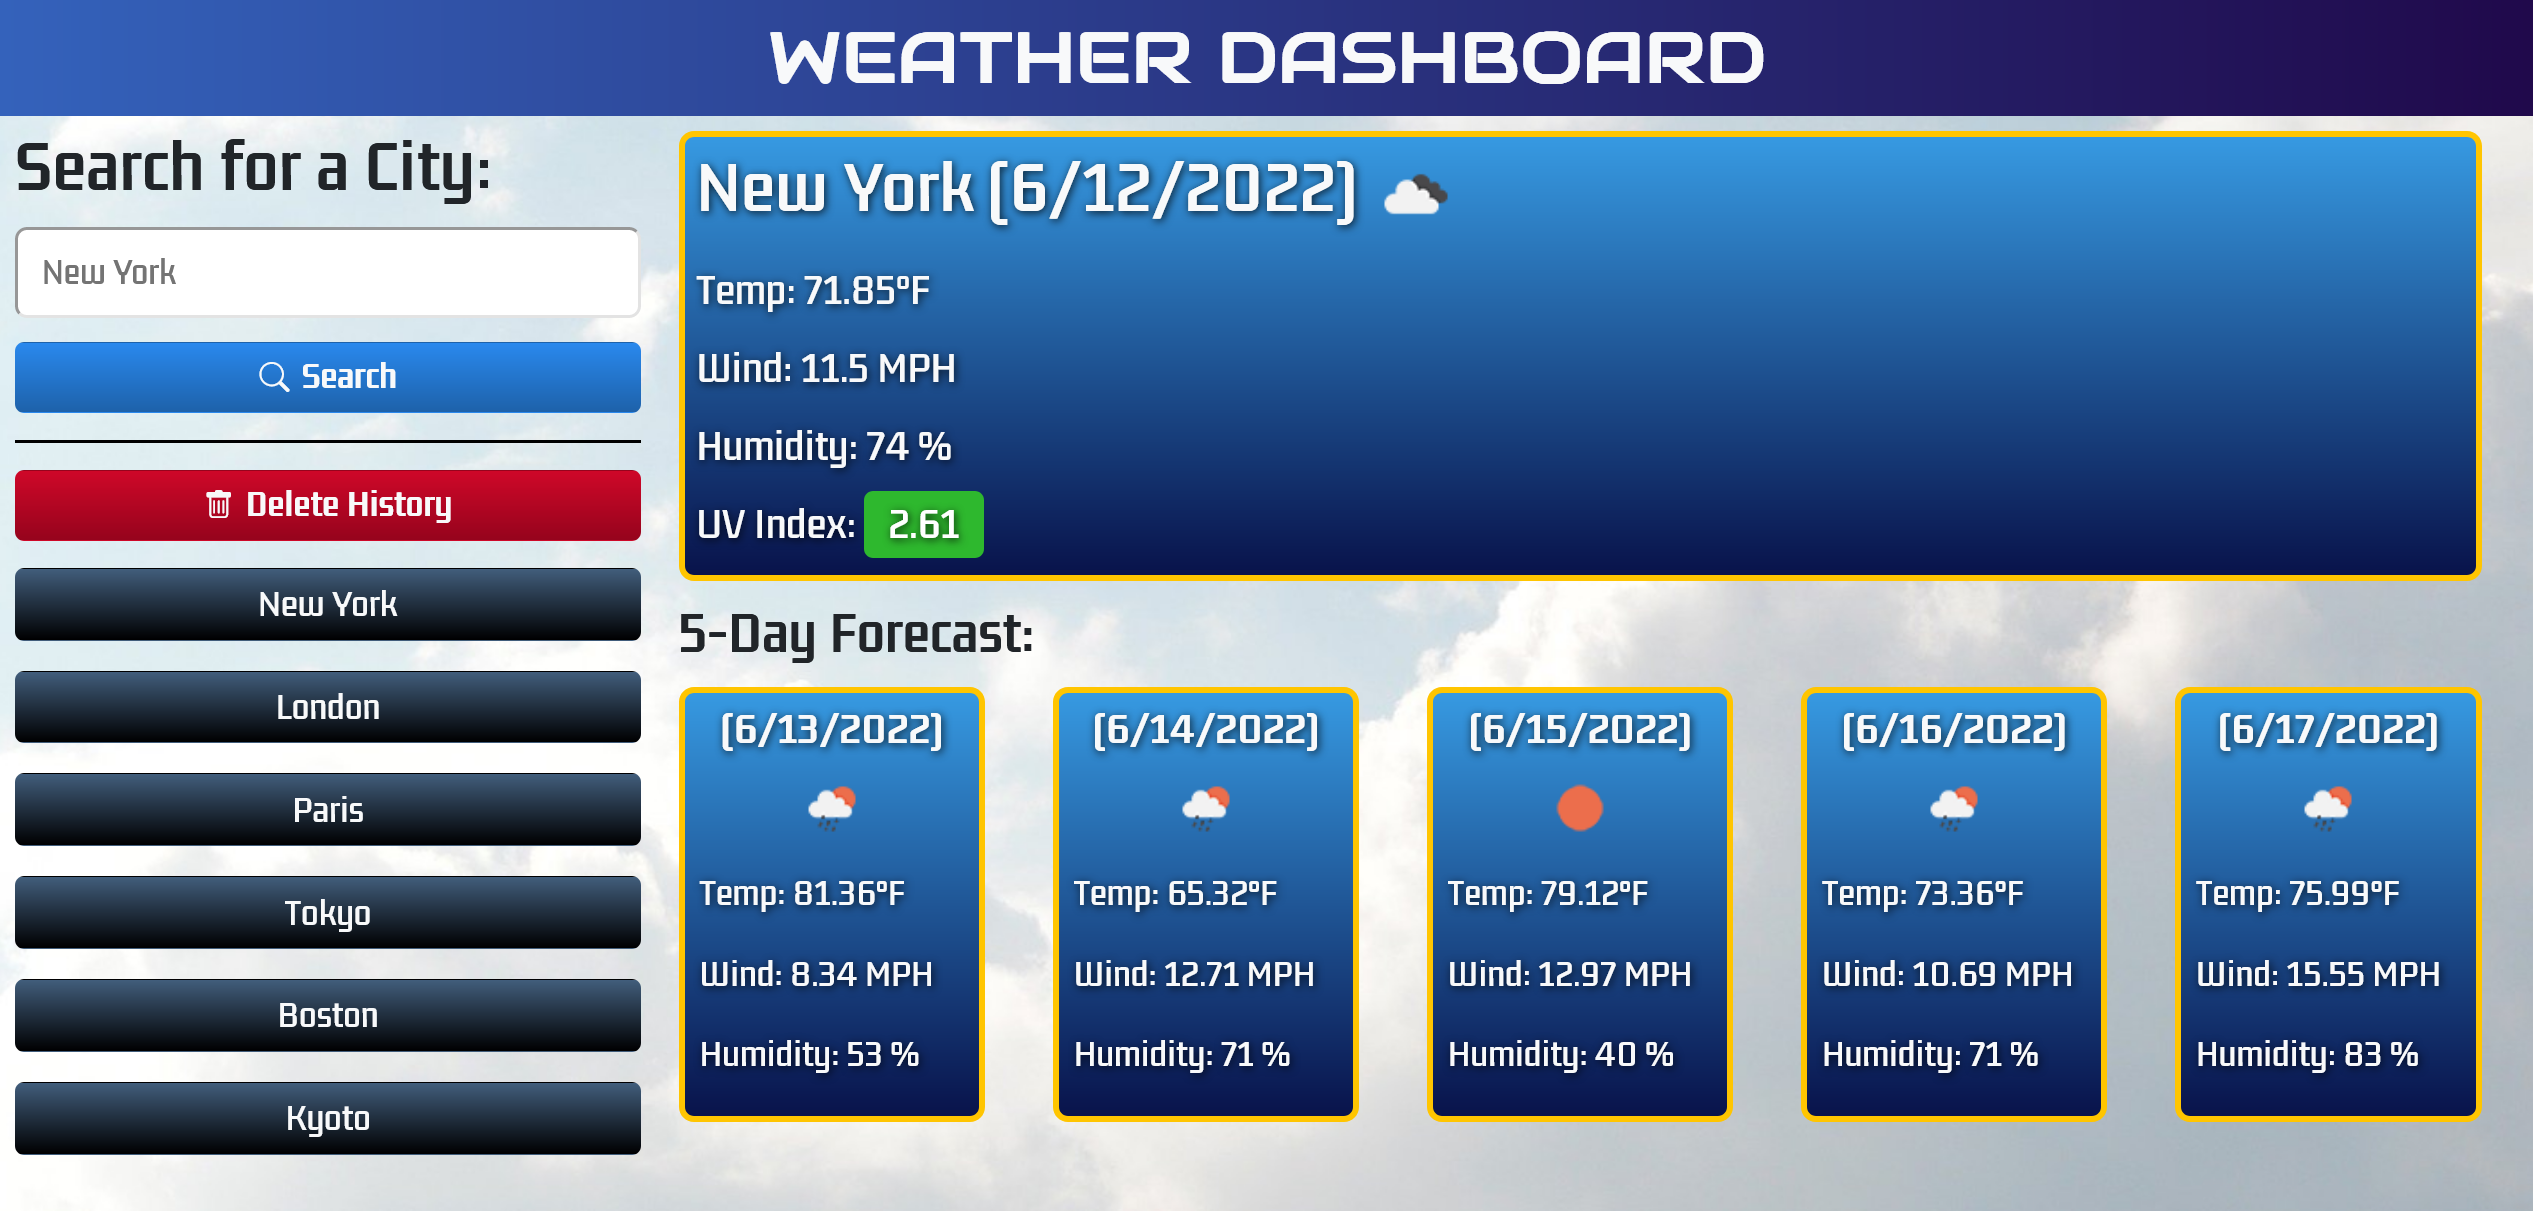
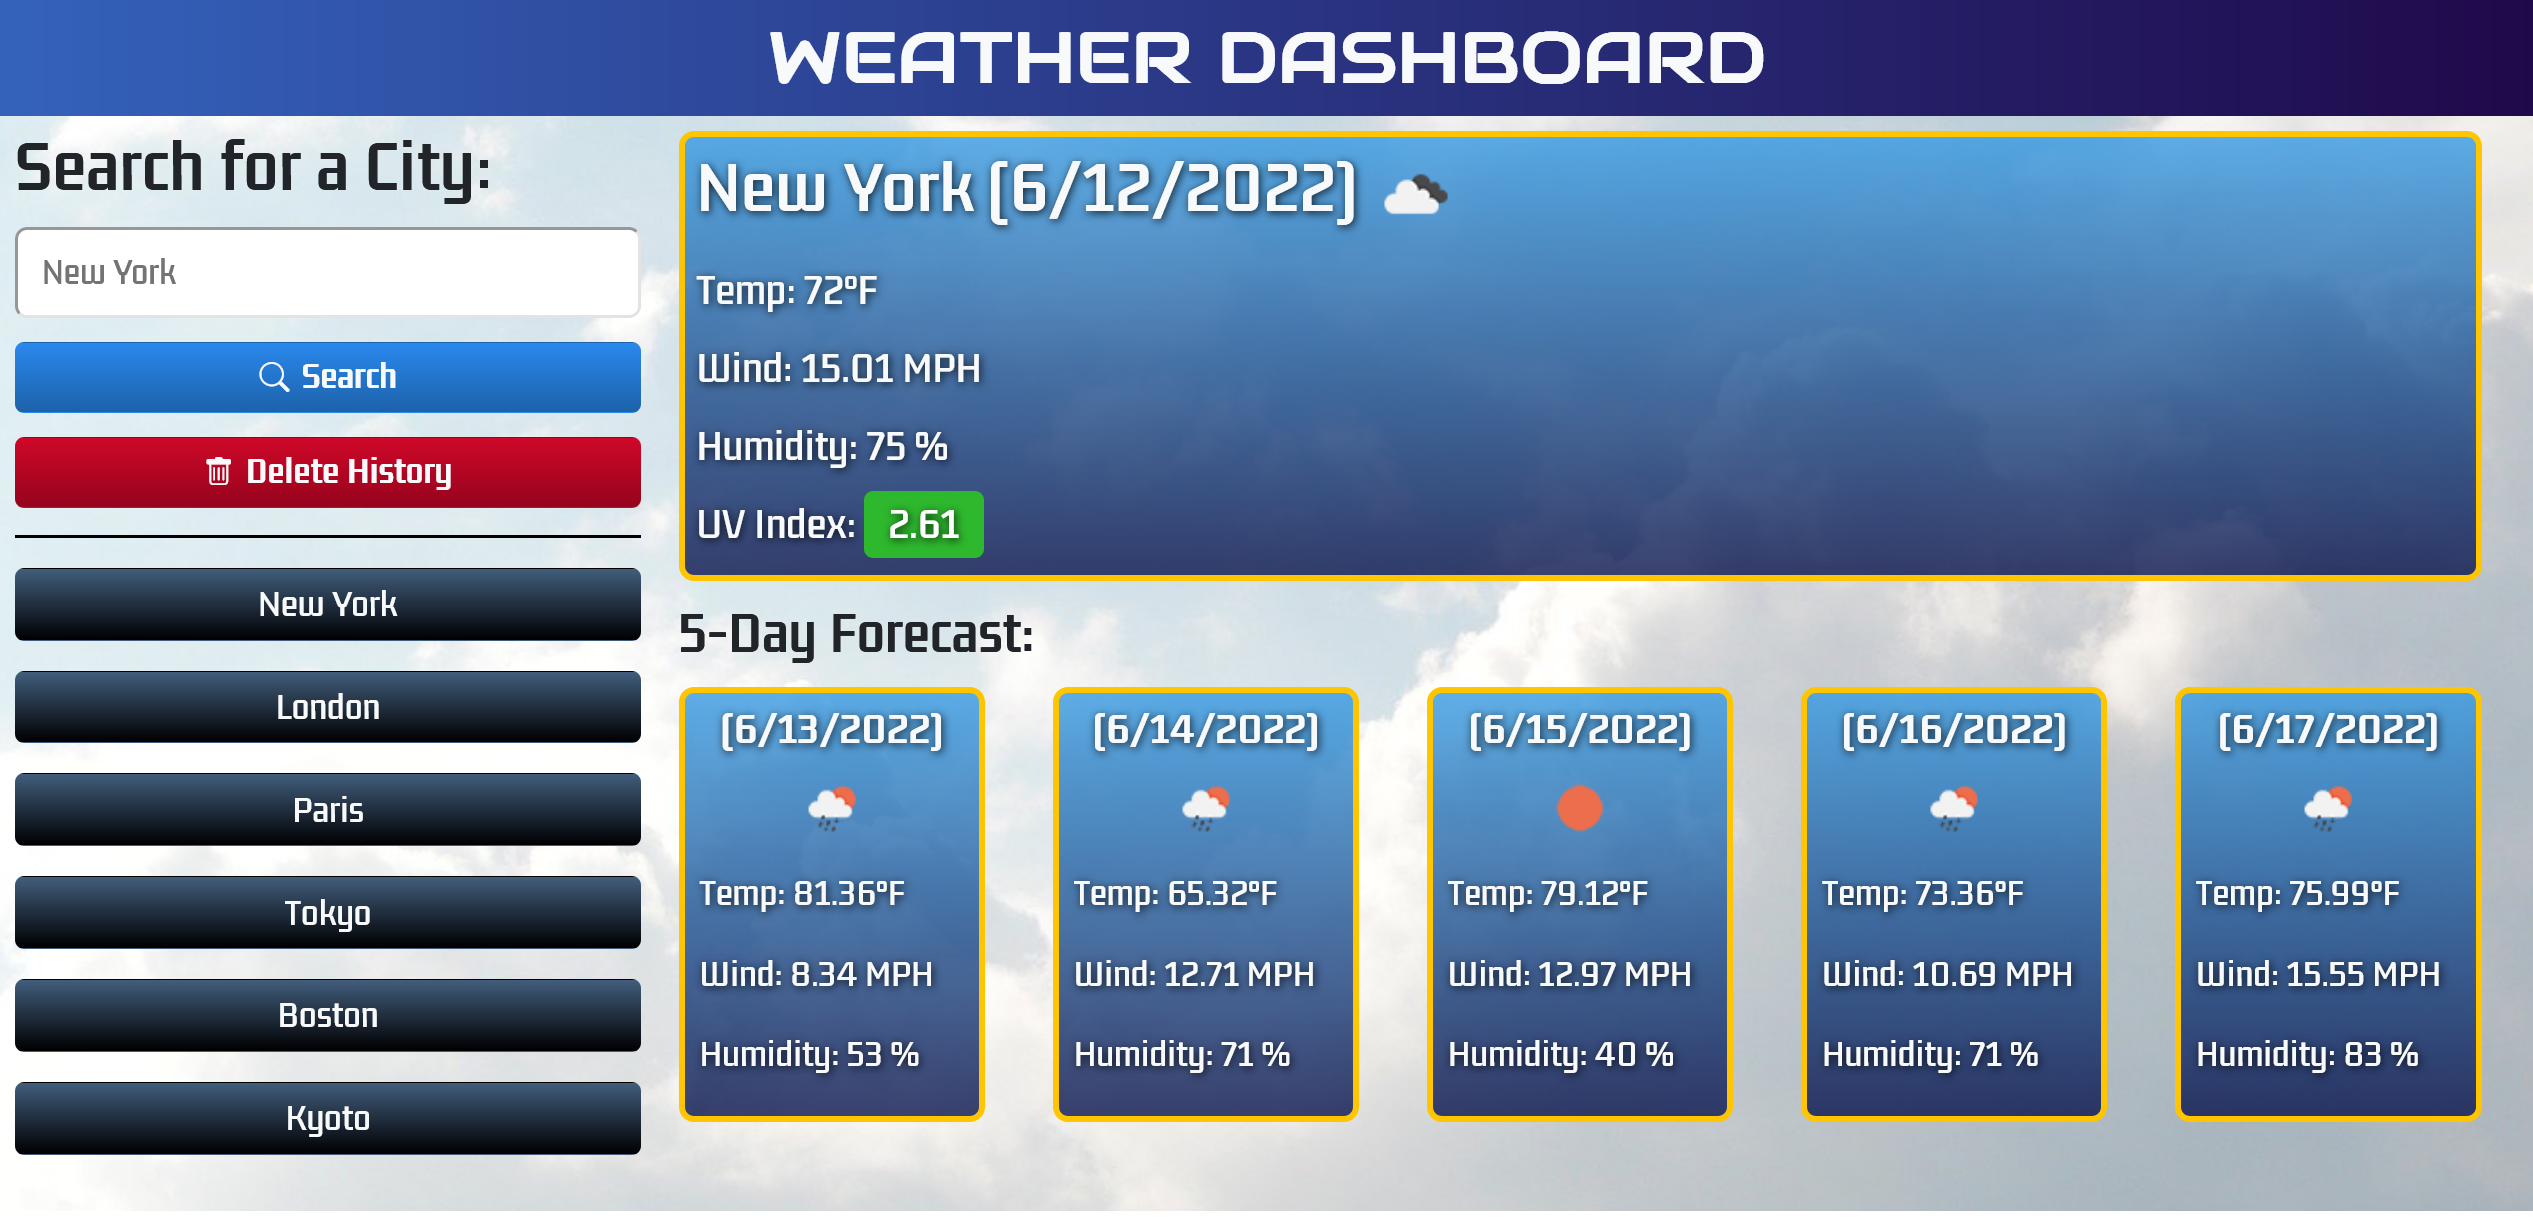
Updated CSS

diff --git a/assets/js/script.js b/assets/js/script.js
@@ -2,7 +2,6 @@
 var apiKey = "&appid=b179b0ec8a494dd3814af7d275d79d75";
 var searchHistory = [];
 var currentCity = "";
-var currentDate = "";
 
 // function to display current city weather
 var setWeatherDisplay = function(data) {
@@ -26,7 +25,7 @@ var setWeatherDisplay = function(data) {
     $("#current-city").text(currentCity);
 
     // set date display to current date
-    $("#current-date").text(currentDate);
+    $("#current-date").text(moment.unix(currentData.dt).format("(M/D/YYYY)"));
 
     // set icon for weather condition
     $("#current-condition").attr("src", "https://openweathermap.org/img/wn/" + currentData.weather[0].icon + ".png");
@@ -49,16 +48,16 @@ var setWeatherDisplay = function(data) {
     if (currentUv < 3) {
         uvIndex.addClass("text-bg-low");
     } 
-    else if (currentUv > 3 && currentUv < 6) {
+    else if (currentUv >= 3 && currentUv < 6) {
         uvIndex.addClass("text-bg-moderate");
     }
-    else if (currentUv > 6 && currentUv < 8) {
+    else if (currentUv >= 6 && currentUv < 8) {
         uvIndex.addClass("text-bg-high");
     }  
-    else if (currentUv > 8 && currentUv < 11) {
+    else if (currentUv >= 8 && currentUv < 11) {
         uvIndex.addClass("text-bg-very-high");
     }
-    else if (currentUv > 11) {
+    else if (currentUv >= 11) {
         uvIndex.addClass("text-bg-extreme");
     }
 };
@@ -126,18 +125,16 @@ var getCityLocation = function(city) {
             // request successful
             if (response.ok) {
                 response.json().then(function(data) {
-                    // set up global variables for later use
+                    // set up global variable for later use
                     currentCity = data.name;
-                    var dateData = data.dt;
-                    currentDate = moment.unix(dateData).format("(M/D/YYYY)");
+
+                    // pass city name to save history function
+                    saveHistory(data.name);
 
                     // get coordinates then pass into weather function
                     var y = data.coord.lat;
                     var x = data.coord.lon;
                     getCityWeather(y, x);
-                    
-                    // pass city name to save history function
-                    saveHistory(data.name);
                 })
             } else {
                 // if user input a city that does not exist

diff --git a/index.html b/index.html
@@ -17,24 +17,29 @@
     </header>
 
     <main id="content" class="row">
+        <!-- Search Section -->
         <section id="search" class="col-3 d-flex flex-column">
             <h2 class="fw-bold fs-1">Search for a City:</h2>
             <input id="search-input" type="text" placeholder="New York" class="my-2 form-control-lg"/>
             <button id="search-button" type="submit" class="my-2 p-2 btn text-light fw-semibold fs-5">
                 <i class="bi bi-search me-2"></i>Search
             </button>
+            <button id="delete-button" type="submit" class="my-2 p-2 btn text-light fw-semibold fs-5">
+                <i class="bi bi-trash me-2"></i>Delete History
+            </button>
+            <!-- Search History -->
             <div class="search-container d-flex flex-column text-light">
-                <button id="delete-button" type="submit" class="my-2 p-2 btn text-light fw-semibold fs-5">
-                    <i class="bi bi-trash me-2"></i>Delete History
-                </button>
                 <ul id="search-history" class="d-flex flex-column text-light">
                 </ul>
             </div>
         </section>
+        <!-- Main Display -->
         <section class="forecast-container col-9">
+            <!-- Current City Display -->
             <section id="current-display">
                 <div id="city-display" class="text-light p-2"></div>
             </section>
+            <!-- 5-day Forecast Display -->
             <section id="five-day-forecast" class="pt-2">
                 <h2 class="fw-bold py-2">5-Day Forecast:</h2>
                 <ul id="days" class="d-flex justify-content-between text-light p-0">

diff --git a/assets/css/style.css b/assets/css/style.css
@@ -22,6 +22,8 @@ p {
     margin: 10px;
 }
 
+/* Search Section */
+
 #search {
     padding: 0;
 }
@@ -69,13 +71,15 @@ p {
     background: linear-gradient(#5b98d8, #425e7c);
 }
 
+/* Main Display */
+
 .forecast-container {
     padding: 0 25px 10px 25px;
 }
 
 #city-display {
     height: 300px;
-    background: linear-gradient(#379ae2, #09134b);
+    background: linear-gradient(rgb(55, 154, 226, 0.8), rgb(9, 19, 75, 0.75));
     border: 4px solid #ffc500;
     border-radius: 10px;
     text-shadow: 1px 1px 5px rgb(0, 0, 0, 0.8);
@@ -90,31 +94,30 @@ p {
     font-size: 1.5rem;
 }
 
+/* UV Index */
+
 .text-bg-low {
-    color:white;
     background-color: #2eb82e;
 }
 
 .text-bg-moderate {
     color:black;
     background-color: #ffd900;
-    text-shadow: 1px 1px 5px rgba(255, 255, 255, 0.5);
+    text-shadow: 1px 1px 10px rgba(255, 255, 255, 0.3);
 }
 
 .text-bg-high {
     color:black;
     background-color: #ff9100;
-    text-shadow: 1px 1px 5px rgba(255, 255, 255, 0.5);
+    text-shadow: 1px 1px 10px rgba(255, 255, 255, 0.3);
 }
 
 .text-bg-very-high {
-    color:white;
     background-color: #cc2900;
-};
+}
 
 .text-bg-extreme {
-    color: white;
-    background-color: #712cf9;
+    background-color: #8b51ff;
 }
 
 img {
@@ -122,8 +125,10 @@ img {
     width: 60px;
 }
 
+/* 5-day Forecast */
+
 .day-container {
-    background: linear-gradient(#379ae2, #09134b);
+    background: linear-gradient(rgb(55, 154, 226, 0.8), rgb(9, 19, 75, 0.75));
     border: 4px solid #ffc500;
     border-radius: 10px;
     width: 17%;
